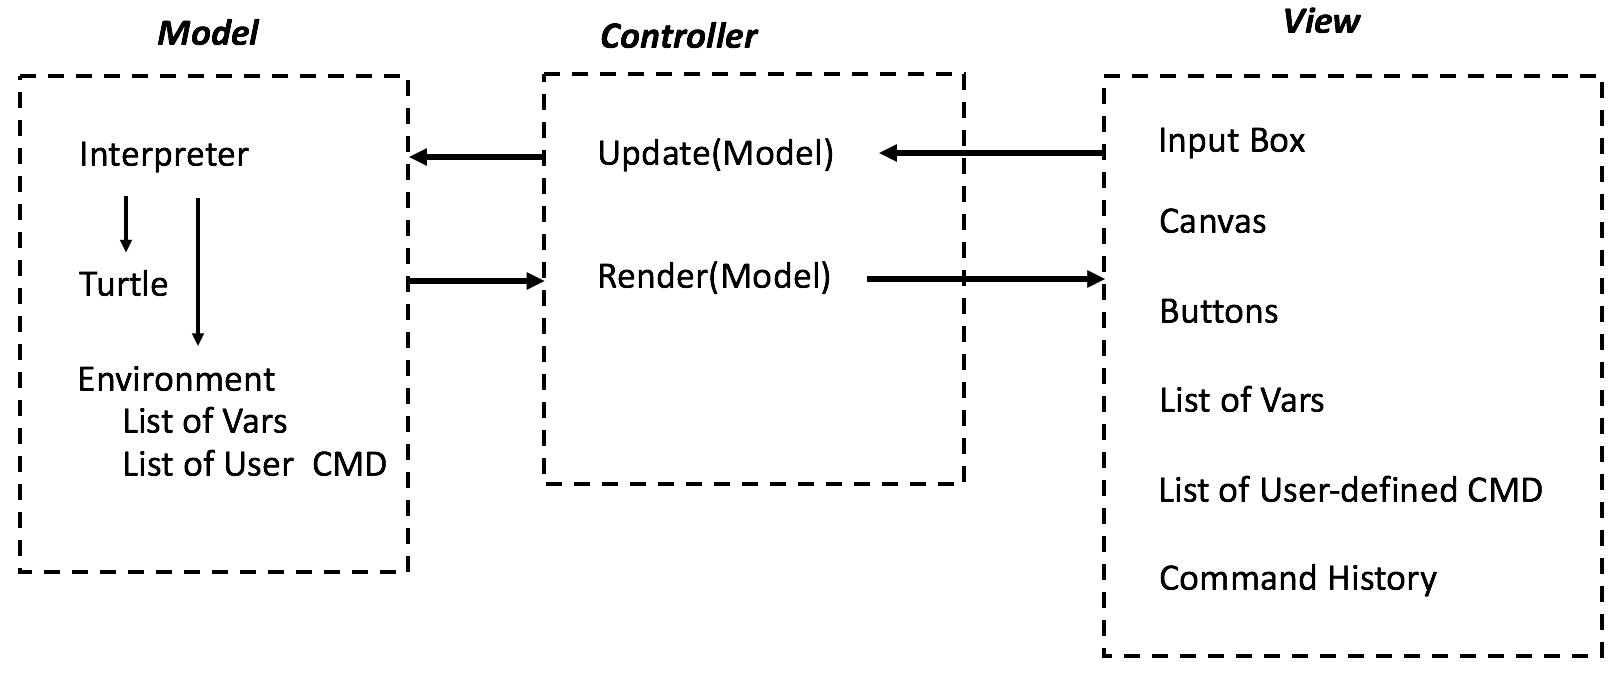
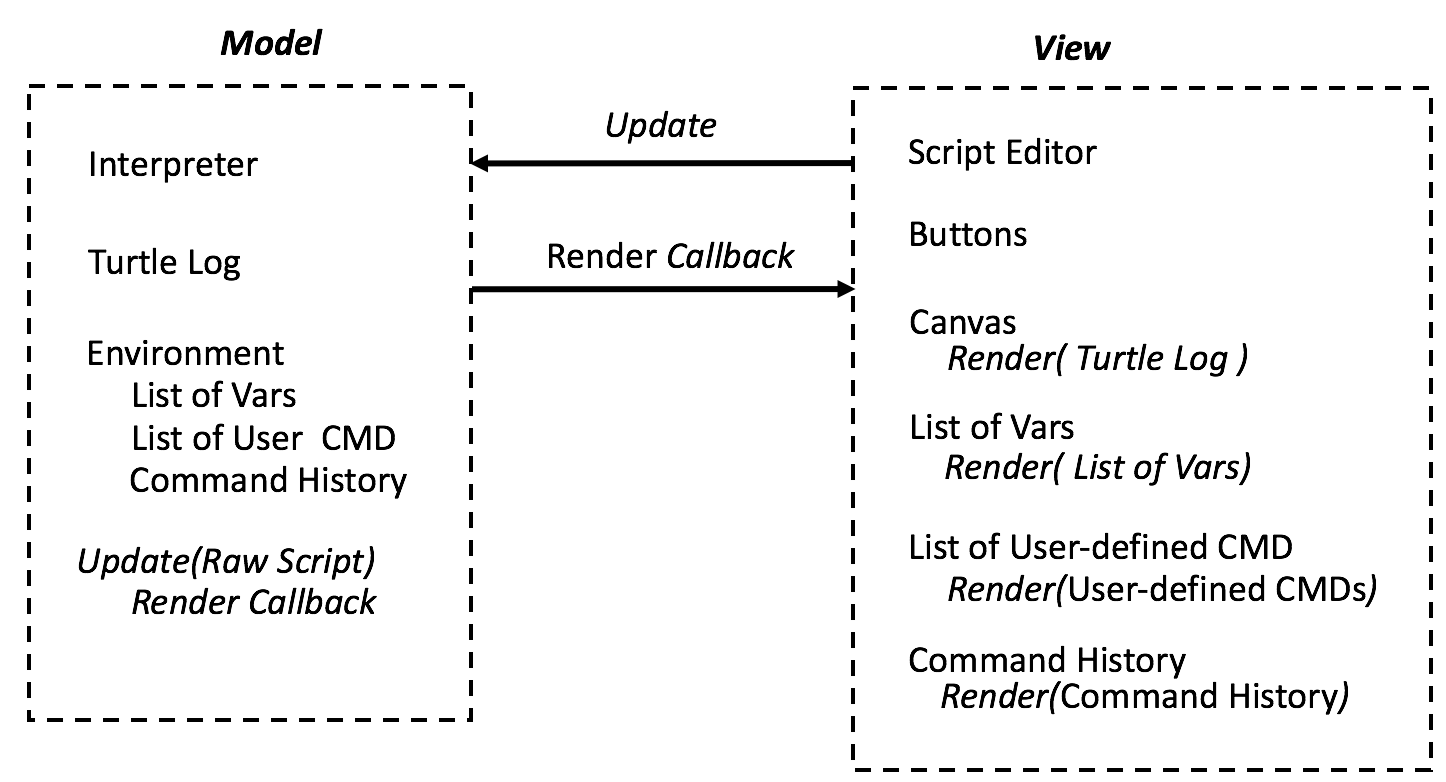
Update Design Overview

diff --git a/DESIGN.md b/DESIGN.md
@@ -1,31 +1,59 @@
 # Design for SLogo
 
-### Design Overview
 
-+ Main
-    * Would initialize the controller and start the program.
-
-+ Controller
-    * Responsible for taking in input and passing it to the interpreter, after which it calls the view to update/render itself again.
-
-+ Interpreter
-    * Parses the command depending on which language the user chose and calls the corresponding action for the ViewObject.
-
-+ View/User Interface
-    * Renders the backend and displays all other information needed for the program. This will consist of different subclasses which each hold a different part of the view.
-
-+ Actions
-    
-+ Exceptions
-
-+ ViewObject
-    * This is a superclass which represents any object on the viewing screen that the user can control. 
-    * Turtle will be a subclass of this
-
-
-
+### Introduction
+TODO
 
 #### Design Overview Diagram
 
 ![Design Overview Diagram](design_overview.png "Design Overview Diagram")
+
+
+### Design Overview
+
++ Main
+    * Would initialize the model and view to start the program.
+
++ Model
+	* Interpreter
+    	* Parses the the script text to inistatiate a list of Commands. The script text handles i18n using properties resource file to get translation.
+    	* Command is a class with a method member called execute(). A user-defined Command extends Command and essentailly encapsolates a list of other Commands, with its own stack frame and argument lists.
+    	* Loops are also implemented this way, except using its parent's stack frame and no argument lists.
+    * Turtle Log
+    	* The execution of each command potentially changes the state of the turtle, moving, turning, etc. Such updates are recorded in order in an append-only log. When the script is done executing, this log is passed to frontend, which will animates the turtle actions in sequence. 
+    * Environment
+    	* Record the list of global vars, list of user defined commands, and all command history as the script executes.
+    * Update()
+    	* The public API of the model for the frontend to pass the user input script or update its states listed above. 
+    	* Render Callback
+    		* An asynchrous communication paradigm between Model and View. When View updates the model, instead of periodic polling the model to see if execution finishes, the View knows that when scipt execution finishes, model will call render APIs on View to update the view, an interrupt if you will. 
+
++ View
+    * Scipt Editor
+    	* Syntax Highlighting, copy and pasting, etc. 
+    * Buttons
+    	* Run, clear, etc.
+    * Canvas
+    	* The playground for the turtle that captures all its drawings. 
+    * List of global vars, list of user defined commands, and all command history
+    	* Frontend representation of the the current states of the program. 
+	* Might consist of different subclasses which each hold a different part of the view.
     
++ Exceptions
+	* Exceptions generated during compile time or run time execution, such as UnrecognizedIdentifier, MissingParenthesis, OutOfCanvasBoarder, StackOverflow, TimeLimitedExceeded, etc. 
+
+### User Interface
+
+
+### API Details 
+
+
+### API Example Code
+
+
+### Design Considerations 
+
+
+### Team Responsibilities
+
+
